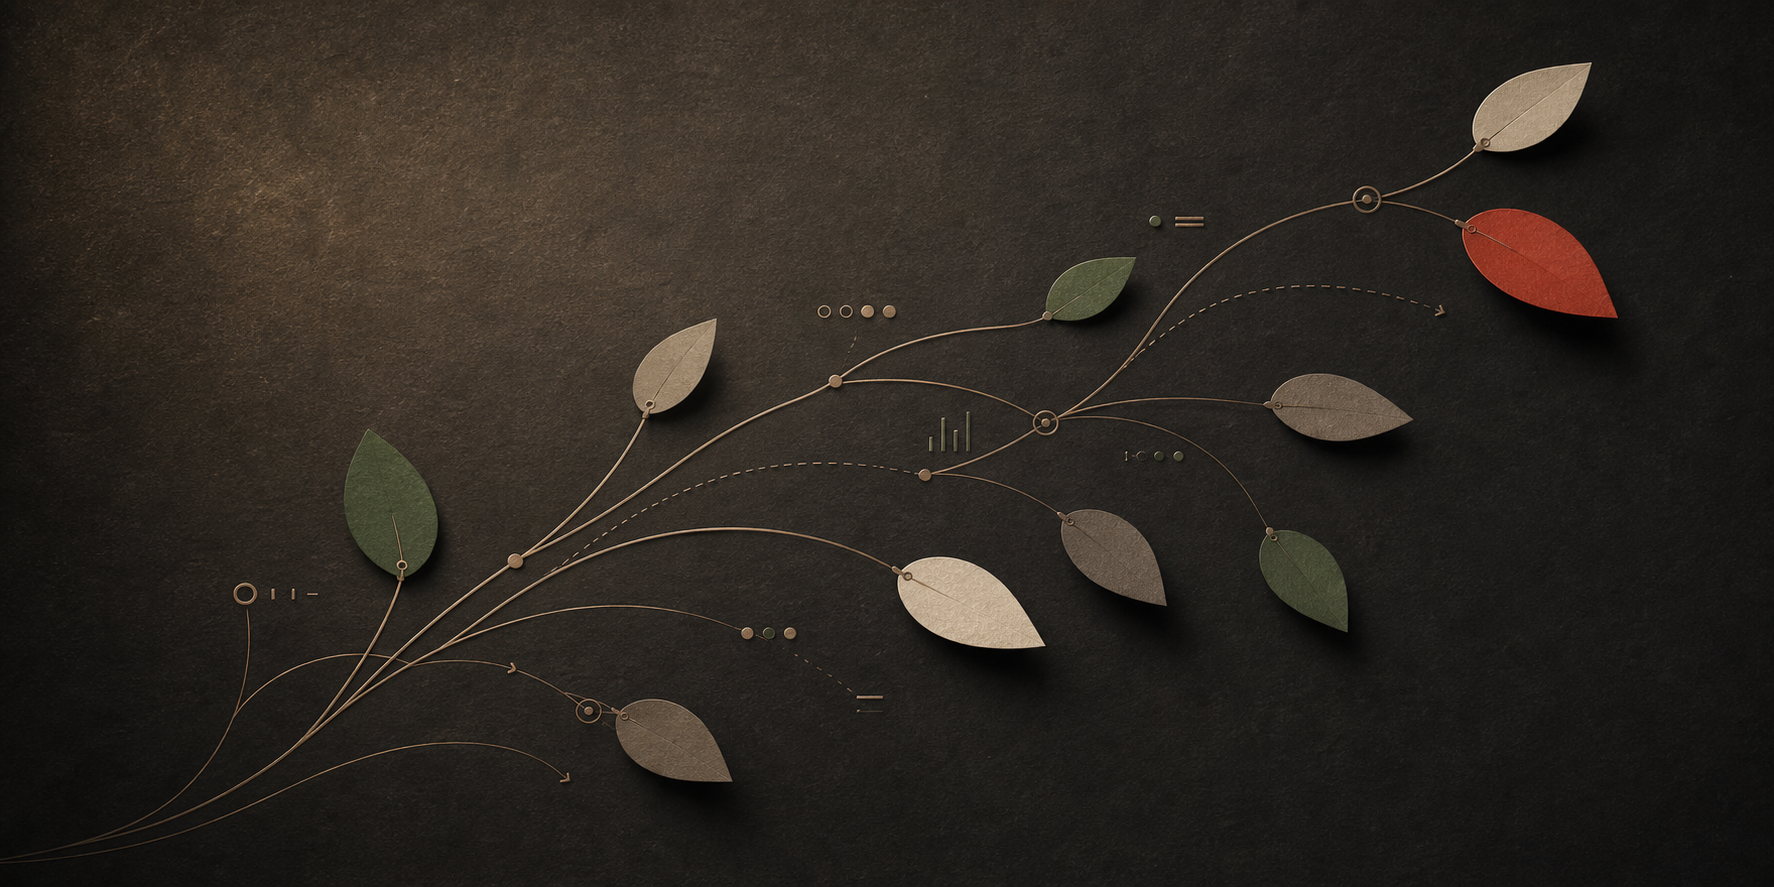
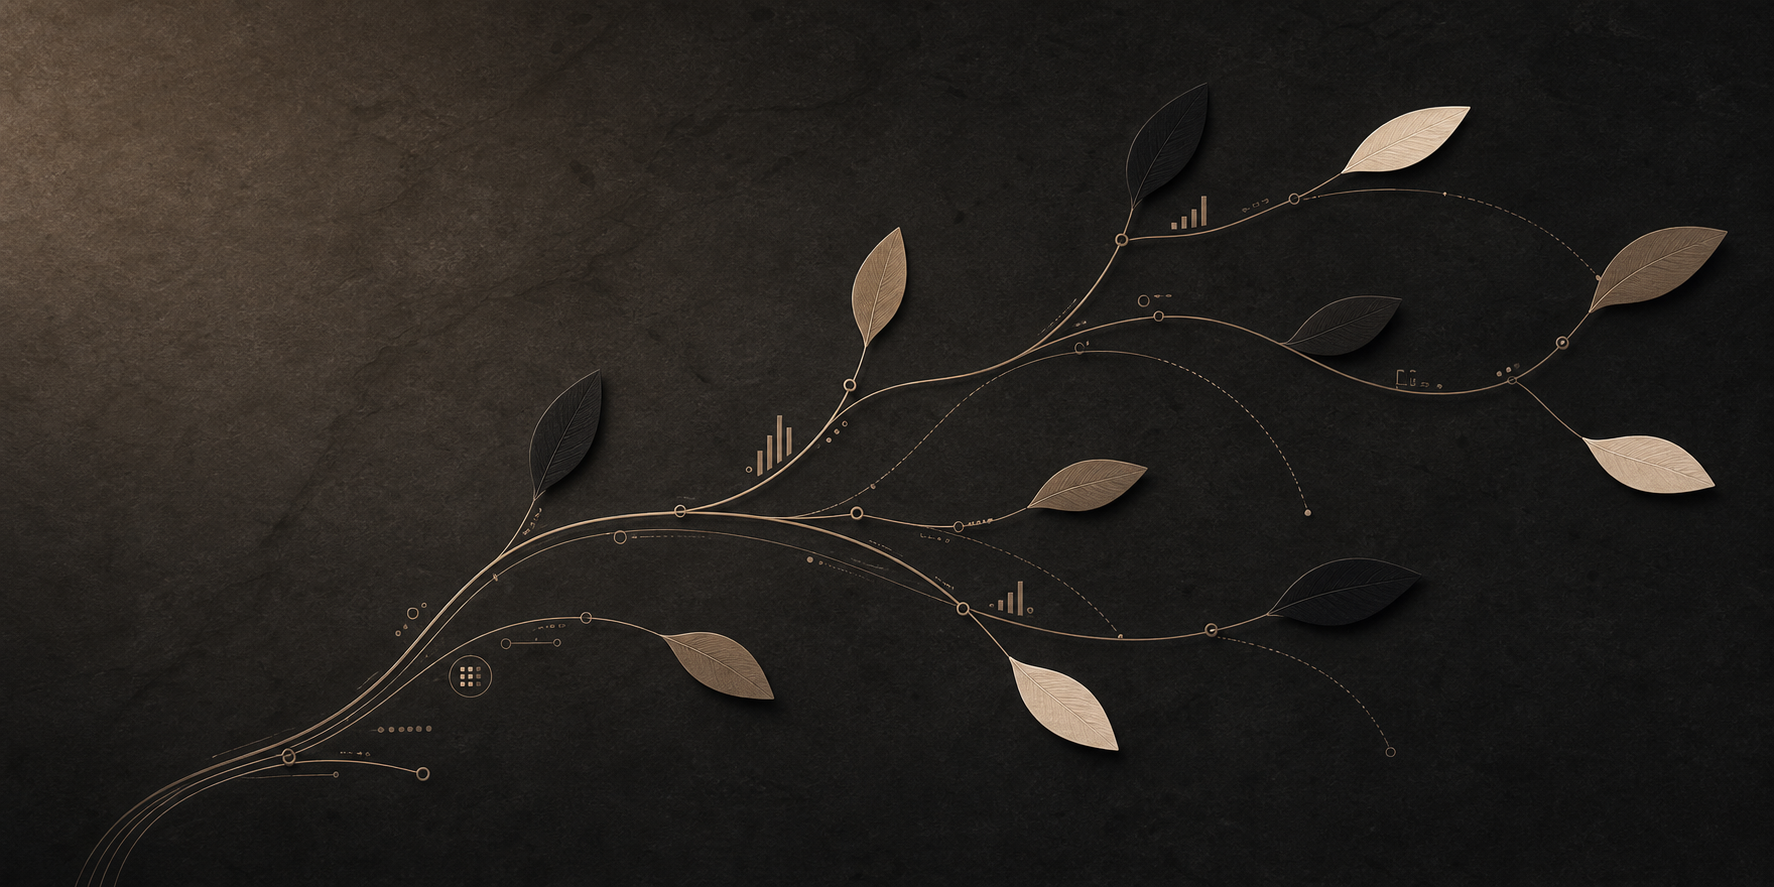
docs(brand): switch leaf accents to black and beige

diff --git a/docs/brand-logo.md b/docs/brand-logo.md
@@ -19,8 +19,8 @@ It maps the product idea to a simple visual system:
 | Canvas | `#f5f5f5` | light logo background |
 | Warm stone | `#dbd4cd` | dark icon linework |
 | Muted taupe | `#6f6964` | light logo linework |
-| Success green | `#4c6b58` | balanced/active task leaf |
-| Terracotta | `#b93a2f` | priority accent leaf |
+| Light beige | `#e8e3dc` | balanced/active task leaf |
+| Black leaf | `#111111` | priority accent leaf |
 | Frame grey | `#a39e9a` | secondary task leaf |
 
 ## Files